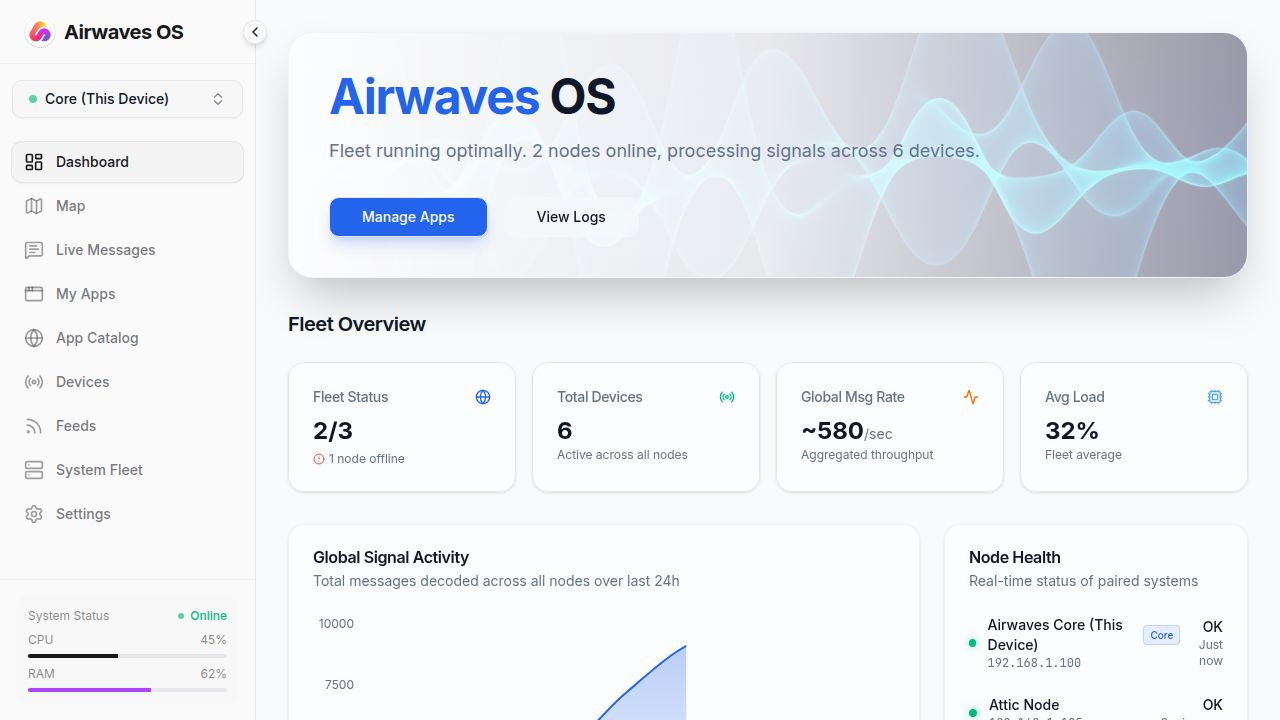
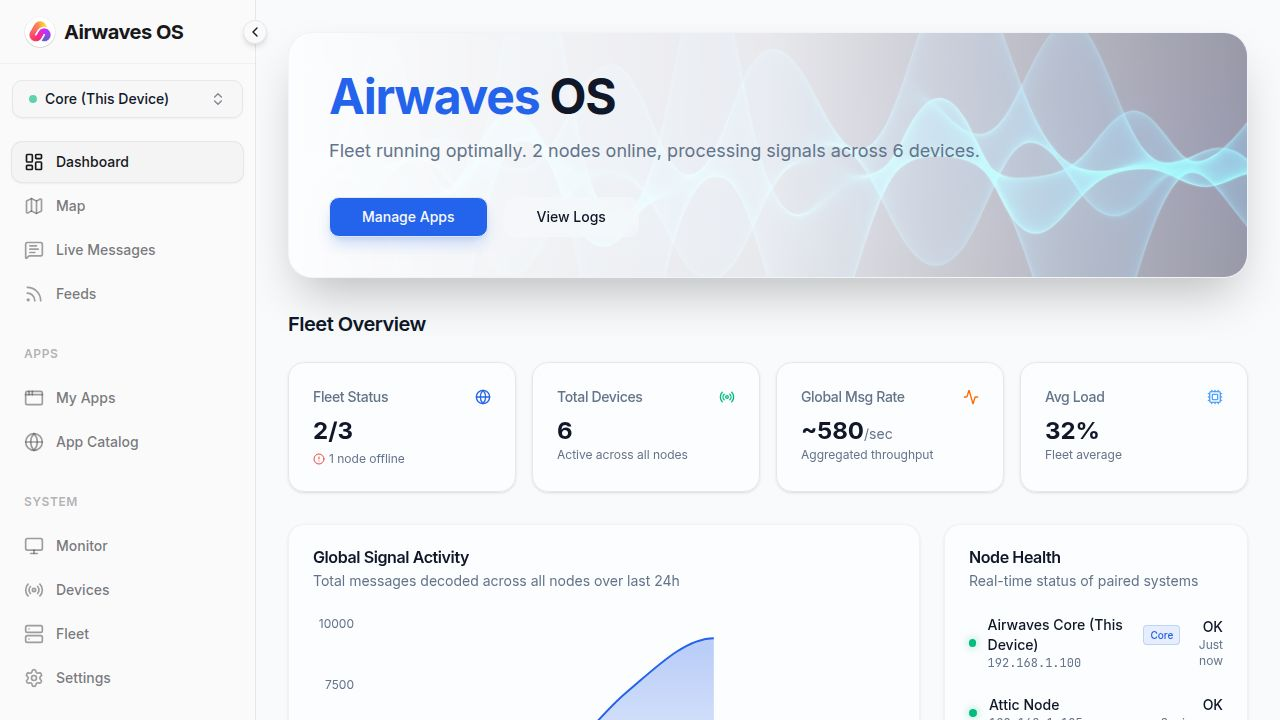
Improve navigation on smaller screens for viewing installed applications
Update the "My Apps" page to correctly display a "Back to Apps" button on screens smaller than 1024px, enabling users to navigate back to the app list after selecting an individual app.

Replit-Commit-Author: Agent
Replit-Commit-Session-Id: 18b62c97-b5e9-4ae5-ac0d-241fc4c100a3
Replit-Commit-Checkpoint-Type: full_checkpoint
Replit-Commit-Event-Id: 920ebfde-7b1f-4695-ac1d-a2e1159d62ba
Replit-Commit-Screenshot-Url: https://storage.googleapis.com/screenshot-production-us-central1/82540221-12ce-493a-b43f-a66c9d37a31c/18b62c97-b5e9-4ae5-ac0d-241fc4c100a3/bAan4KL
Replit-Helium-Checkpoint-Created: true

diff --git a/client/src/pages/MyApps.tsx b/client/src/pages/MyApps.tsx
@@ -51,22 +51,35 @@ export default function MyApps() {
   const [selectedAppId, setSelectedAppId] = useState<string>(apps[0]?.id);
   const [searchQuery, setSearchQuery] = useState("");
   const { toast } = useToast();
-  const isMobile = useIsMobile();
+  // We use a custom breakpoint check here because this specific layout 
+  // switches to desktop mode at 'lg' (1024px), not the standard mobile breakpoint.
+  const [isCompact, setIsCompact] = useState(false);
   const [showDetail, setShowDetail] = useState(false);
+
+  useEffect(() => {
+    const checkCompact = () => setIsCompact(window.innerWidth < 1024);
+    
+    // Initial check
+    checkCompact();
+    
+    // Listen for resize
+    window.addEventListener('resize', checkCompact);
+    return () => window.removeEventListener('resize', checkCompact);
+  }, []);
 
   const selectedApp = apps.find(app => app.id === selectedAppId);
 
   // Reset showDetail when switching to desktop
   useEffect(() => {
-    if (!isMobile) {
+    if (!isCompact) {
       setShowDetail(true);
     } else {
-      // On mobile, if we have a selected app initially, we might not want to show it immediately 
-      // unless user navigated there. But for simplicity, let's start with list view on mobile 
+      // On mobile/tablet, if we have a selected app initially, we might not want to show it immediately 
+      // unless user navigated there. But for simplicity, let's start with list view 
       // unless specifically requested.
       if (!showDetail) setShowDetail(false); 
     }
-  }, [isMobile]);
+  }, [isCompact]);
 
   // Filter apps based on search
   const filteredApps = apps.filter(app => 
@@ -76,7 +89,7 @@ export default function MyApps() {
 
   const handleAppSelect = (appId: string) => {
     setSelectedAppId(appId);
-    if (isMobile) {
+    if (isCompact) {
       setShowDetail(true);
     }
   };
@@ -100,7 +113,7 @@ export default function MyApps() {
     } else if (selectedAppId === appId) {
       // Select next available
       setSelectedAppId(newApps[0].id);
-      if (isMobile) setShowDetail(false); // Go back to list on mobile after uninstall
+      if (isCompact) setShowDetail(false); // Go back to list on mobile after uninstall
     }
   };
 
@@ -140,7 +153,7 @@ export default function MyApps() {
       {/* Sidebar - App List */}
       <div className={cn(
         "w-full lg:w-80 flex flex-col gap-4 transition-all duration-300 absolute lg:relative inset-0 z-10 bg-background lg:bg-transparent",
-        isMobile && showDetail ? "-translate-x-full opacity-0 pointer-events-none" : "translate-x-0 opacity-100"
+        isCompact && showDetail ? "-translate-x-full opacity-0 pointer-events-none" : "translate-x-0 opacity-100"
       )}>
         <div className="flex items-center justify-between px-1">
           <h1 className="text-2xl font-bold tracking-tight">My Apps</h1>
@@ -167,7 +180,7 @@ export default function MyApps() {
                 onClick={() => handleAppSelect(app.id)}
                 className={cn(
                   "group relative p-4 rounded-xl border transition-all duration-200 cursor-pointer text-left",
-                  selectedAppId === app.id && !isMobile
+                  selectedAppId === app.id && !isCompact
                     ? "bg-card border-primary/50 shadow-md shadow-primary/5 ring-1 ring-primary/20" 
                     : "bg-card/40 border-border/50 hover:bg-card hover:border-border hover:shadow-sm"
                 )}
@@ -175,7 +188,7 @@ export default function MyApps() {
                 <div className="flex items-start gap-3">
                   <div className={cn(
                     "w-10 h-10 rounded-lg flex items-center justify-center shrink-0 transition-colors",
-                    selectedAppId === app.id && !isMobile ? "bg-primary/20 text-primary" : "bg-muted text-muted-foreground group-hover:bg-muted/80"
+                    selectedAppId === app.id && !isCompact ? "bg-primary/20 text-primary" : "bg-muted text-muted-foreground group-hover:bg-muted/80"
                   )}>
                     <app.icon className="w-5 h-5" />
                   </div>
@@ -230,13 +243,13 @@ export default function MyApps() {
       {/* Main Content - Detail View */}
       <div className={cn(
         "flex-1 flex flex-col bg-card/30 backdrop-blur-sm rounded-3xl border border-border/60 shadow-sm overflow-hidden transition-all duration-300 absolute lg:relative inset-0 z-20 bg-background lg:bg-card/30",
-        isMobile && !showDetail ? "translate-x-full opacity-0 pointer-events-none" : "translate-x-0 opacity-100"
+        isCompact && !showDetail ? "translate-x-full opacity-0 pointer-events-none" : "translate-x-0 opacity-100"
       )}>
         {selectedApp ? (
           <>
           {/* Header */}
           <div className="p-6 md:p-8 border-b border-border/40 bg-card/40">
-            {isMobile && (
+            {isCompact && (
               <Button variant="ghost" size="sm" className="mb-4 pl-0 hover:bg-transparent" onClick={handleBackToList}>
                 <ArrowLeft className="w-4 h-4 mr-2" /> Back to Apps
               </Button>